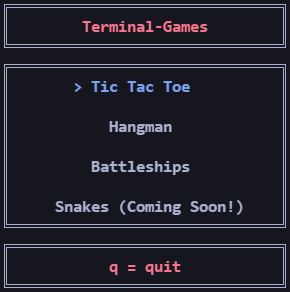
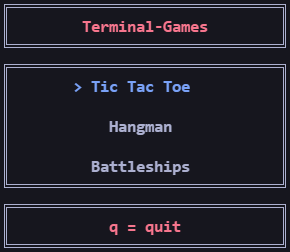
final commit

Changed region(s): [[0.0, 0.0, 0.9931, 0.3889], [0.0, 0.6389, 0.9931, 1.0], [0.3103, 0.4167, 0.6517, 0.6111]]

diff --git a/source/functions.cpp b/source/functions.cpp
@@ -28,31 +28,24 @@ std::string Main_Game_Display(const unsigned int &CurrentSelection)
   // Centre game list
   Output.insert(Output.size(), Main_Top_Line());
 
-  if (CurrentSelection == 3)
+  if (CurrentSelection == 2)
     Output.insert(Output.size(), Main_New_Line(BLUE + "       > Tic Tac Toe          " + WHITE));
   else
     Output.insert(Output.size(), Main_New_Line("         Tic Tac Toe          "));
 
   Output.insert(Output.size(), Main_Empty_Line());
 
-  if (CurrentSelection == 2)
+  if (CurrentSelection == 1)
     Output.insert(Output.size(), Main_New_Line(BLUE + "         > Hangman            " + WHITE));
   else
     Output.insert(Output.size(), Main_New_Line("           Hangman            "));
 
   Output.insert(Output.size(), Main_Empty_Line());
 
-  if (CurrentSelection == 1)
+  if (CurrentSelection == 0)
     Output.insert(Output.size(), Main_New_Line(BLUE + "       > Battleships          " + WHITE));
   else
     Output.insert(Output.size(), Main_New_Line("         Battleships          "));
-
-  Output.insert(Output.size(), Main_Empty_Line());
-
-  if (CurrentSelection == 0)
-    Output.insert(Output.size(), Main_New_Line(BLUE + "   > Snakes (Coming Soon!)    " + WHITE));
-  else
-    Output.insert(Output.size(), Main_New_Line("     Snakes (Coming Soon!)    "));
 
   Output.append(Main_Bottom_Line());
   Output.append(Main_Bottom_Bar());

diff --git a/source/main.cpp b/source/main.cpp
@@ -20,7 +20,7 @@
 int main(void)
 {
   bool ProgramIsRunning = true;
-  unsigned int CurrentSelection = 3;
+  unsigned int CurrentSelection = 2;
 
   HANDLE ConsoleHandle = GetStdHandle(STD_OUTPUT_HANDLE);
   if (ConsoleHandle == INVALID_HANDLE_VALUE)
@@ -39,7 +39,7 @@ int main(void)
     switch (_getch())
     {
       case 72: // up arrow key
-        if (CurrentSelection == 3)
+        if (CurrentSelection == 2)
           CurrentSelection = 0;
         else
           CurrentSelection++;
@@ -47,7 +47,7 @@ int main(void)
 
       case 80: // down arrow key
         if (CurrentSelection == 0)
-          CurrentSelection = 3;
+          CurrentSelection = 2;
         else
           CurrentSelection--;
       break;
@@ -56,17 +56,14 @@ int main(void)
         switch (CurrentSelection)
         {
           case 0:
-          break;
-
-          case 1:
             Play_Battleships(ConsoleHandle, CursorInfo);
           break;
 
-          case 2:
+          case 1:
             Play_Hangman(ConsoleHandle);
           break;
 
-          case 3:
+          case 2:
             Play_Tic_Tac_Toe(ConsoleHandle, CursorInfo);
           break;
 

diff --git a/README.md b/README.md
@@ -51,11 +51,7 @@
  <img src="screenshots/Battleships%20Playing.png">
 </p>
 
-# Snake
-* Supports only 1 player
-
 # Needed Improvements
-* Implement snake game
 * TicTacToe - Implement Hard AI to use the Minimax Algorithm as seen [here](!https://www.geeksforgeeks.org/minimax-algorithm-in-game-theory-set-1-introduction/)
 * Hangman - Implement Hard AI to to use probabilistic guessing as seen [here](!https://www.datagenetics.com/blog/april12012/) and to choose longer words and implement Easy AI to choose shorter words
 * Battleships - Implement Hard AI to continue to attack in a smart manner once a successful hot has been made until the ship is sunk
